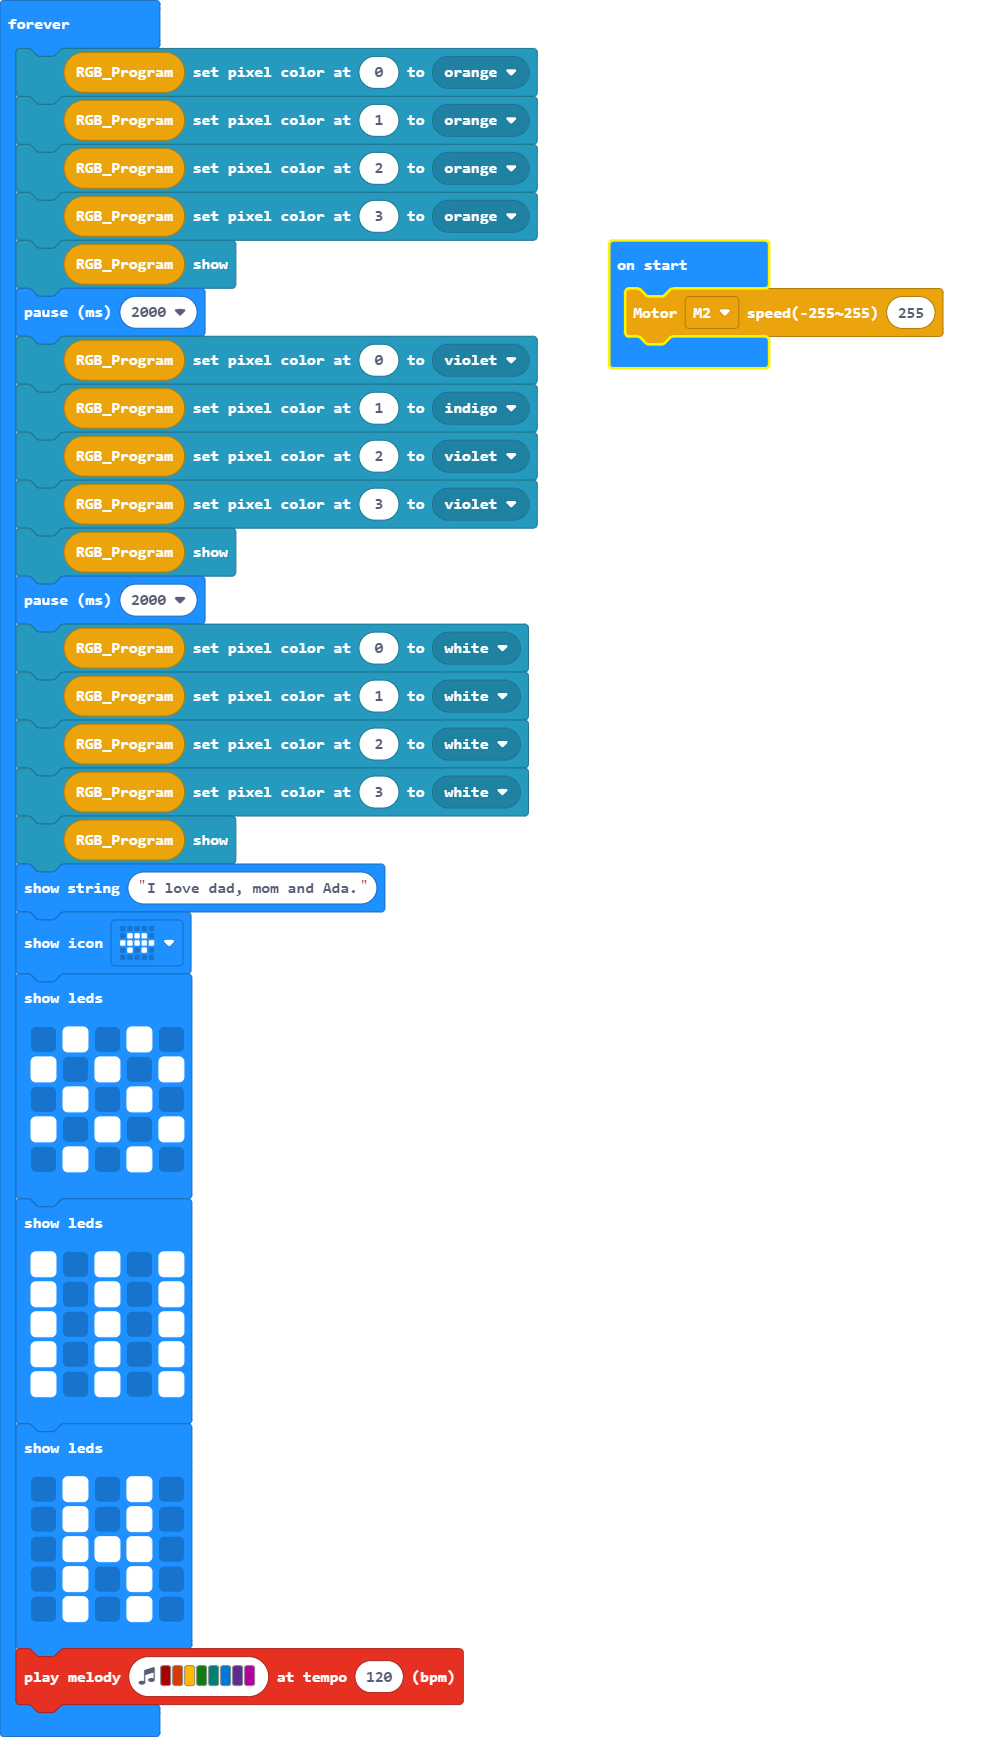
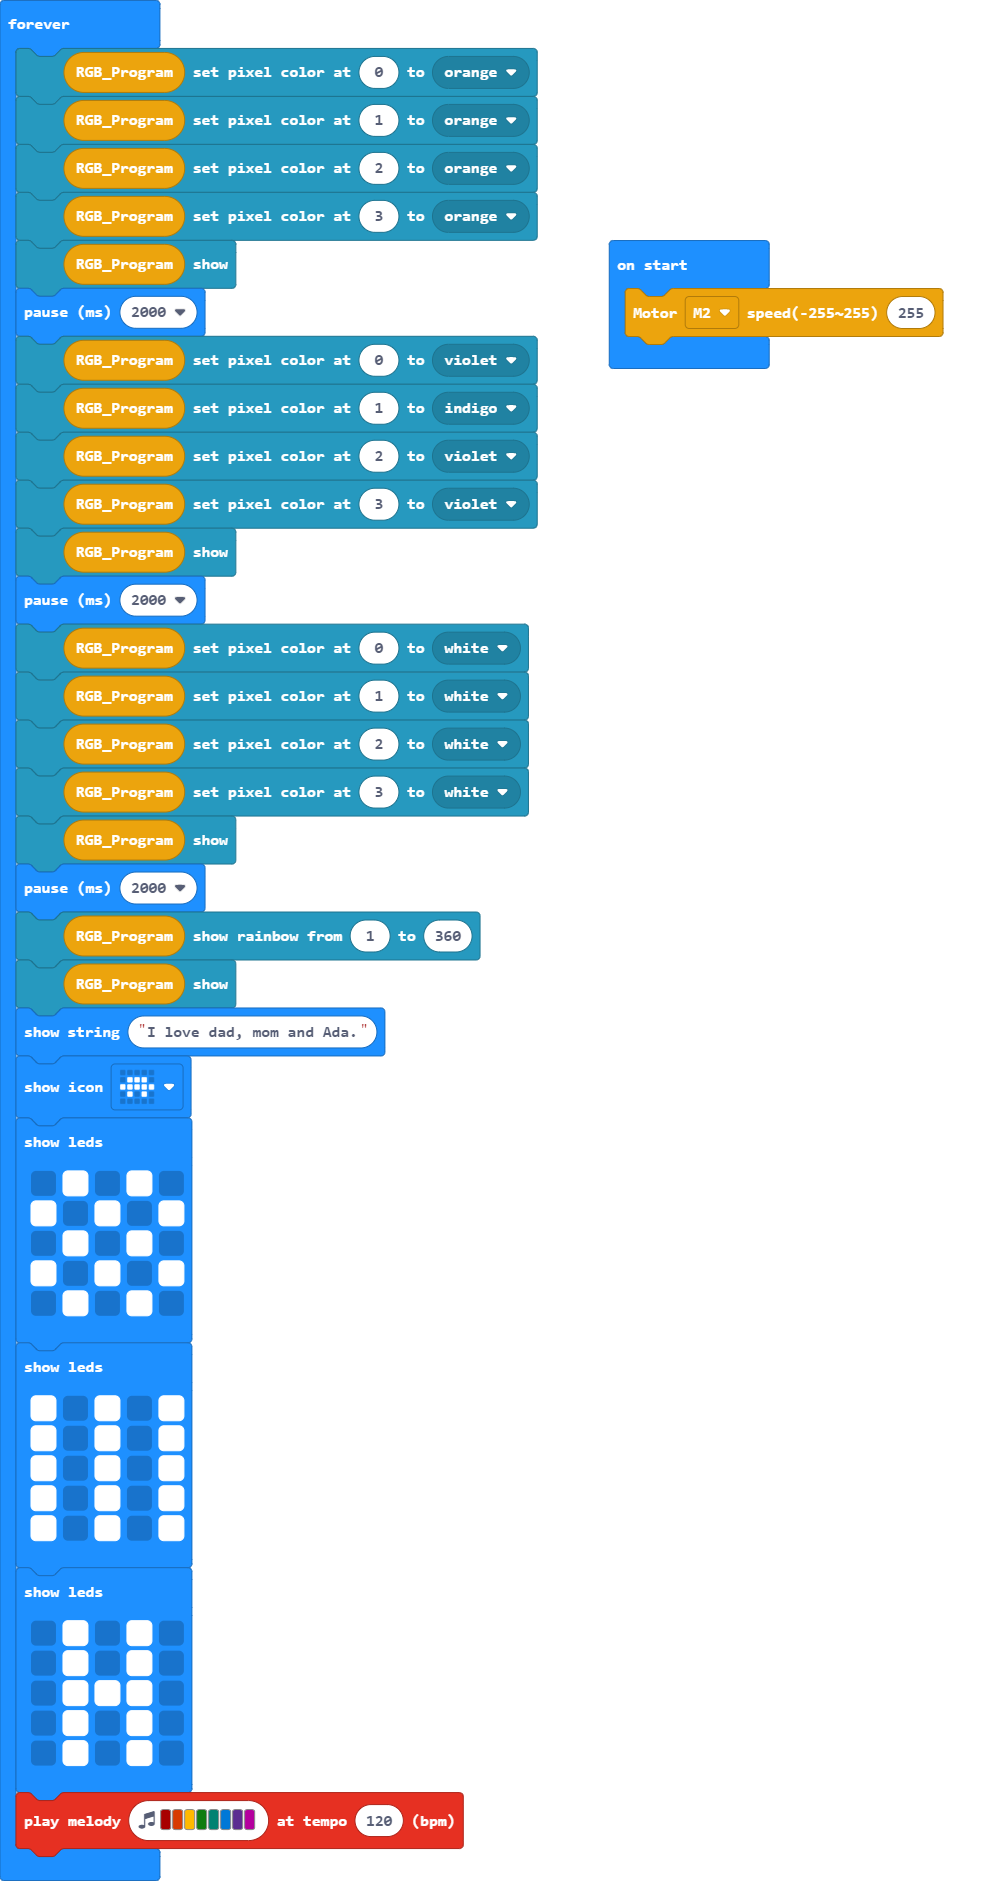
Update main.blocks, main.ts

Changed region(s): [[0.0, 0.0, 0.5608, 0.9948], [0.592, 0.1244, 0.9658, 0.2176]]

diff --git a/main.ts b/main.ts
@@ -17,6 +17,9 @@ basic.forever(function () {
     SuperBit.RGB_Program().setPixelColor(2, neopixel.colors(NeoPixelColors.White))
     SuperBit.RGB_Program().setPixelColor(3, neopixel.colors(NeoPixelColors.White))
     SuperBit.RGB_Program().show()
+    basic.pause(2000)
+    SuperBit.RGB_Program().showRainbow(1, 360)
+    SuperBit.RGB_Program().show()
     basic.showString("I love dad, mom and Ada.")
     basic.showIcon(IconNames.Tortoise)
     basic.showLeds(`
